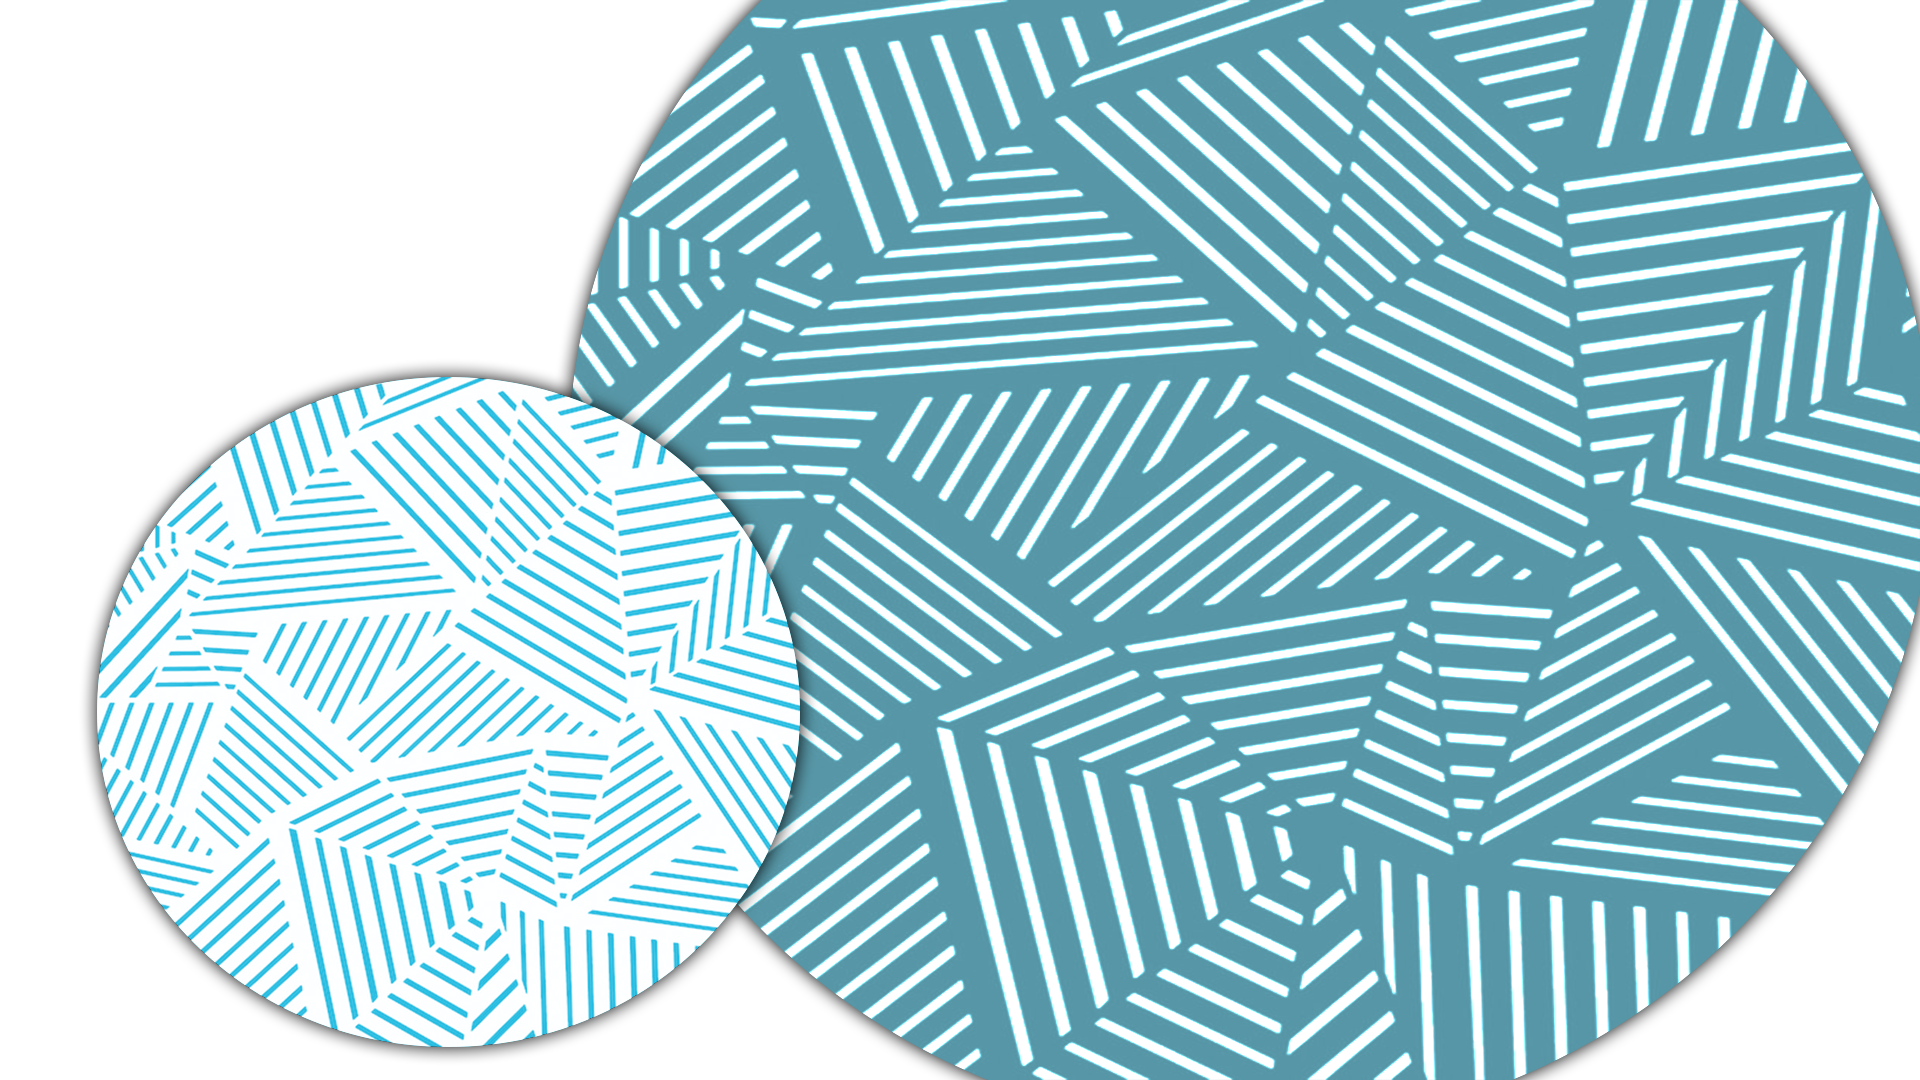
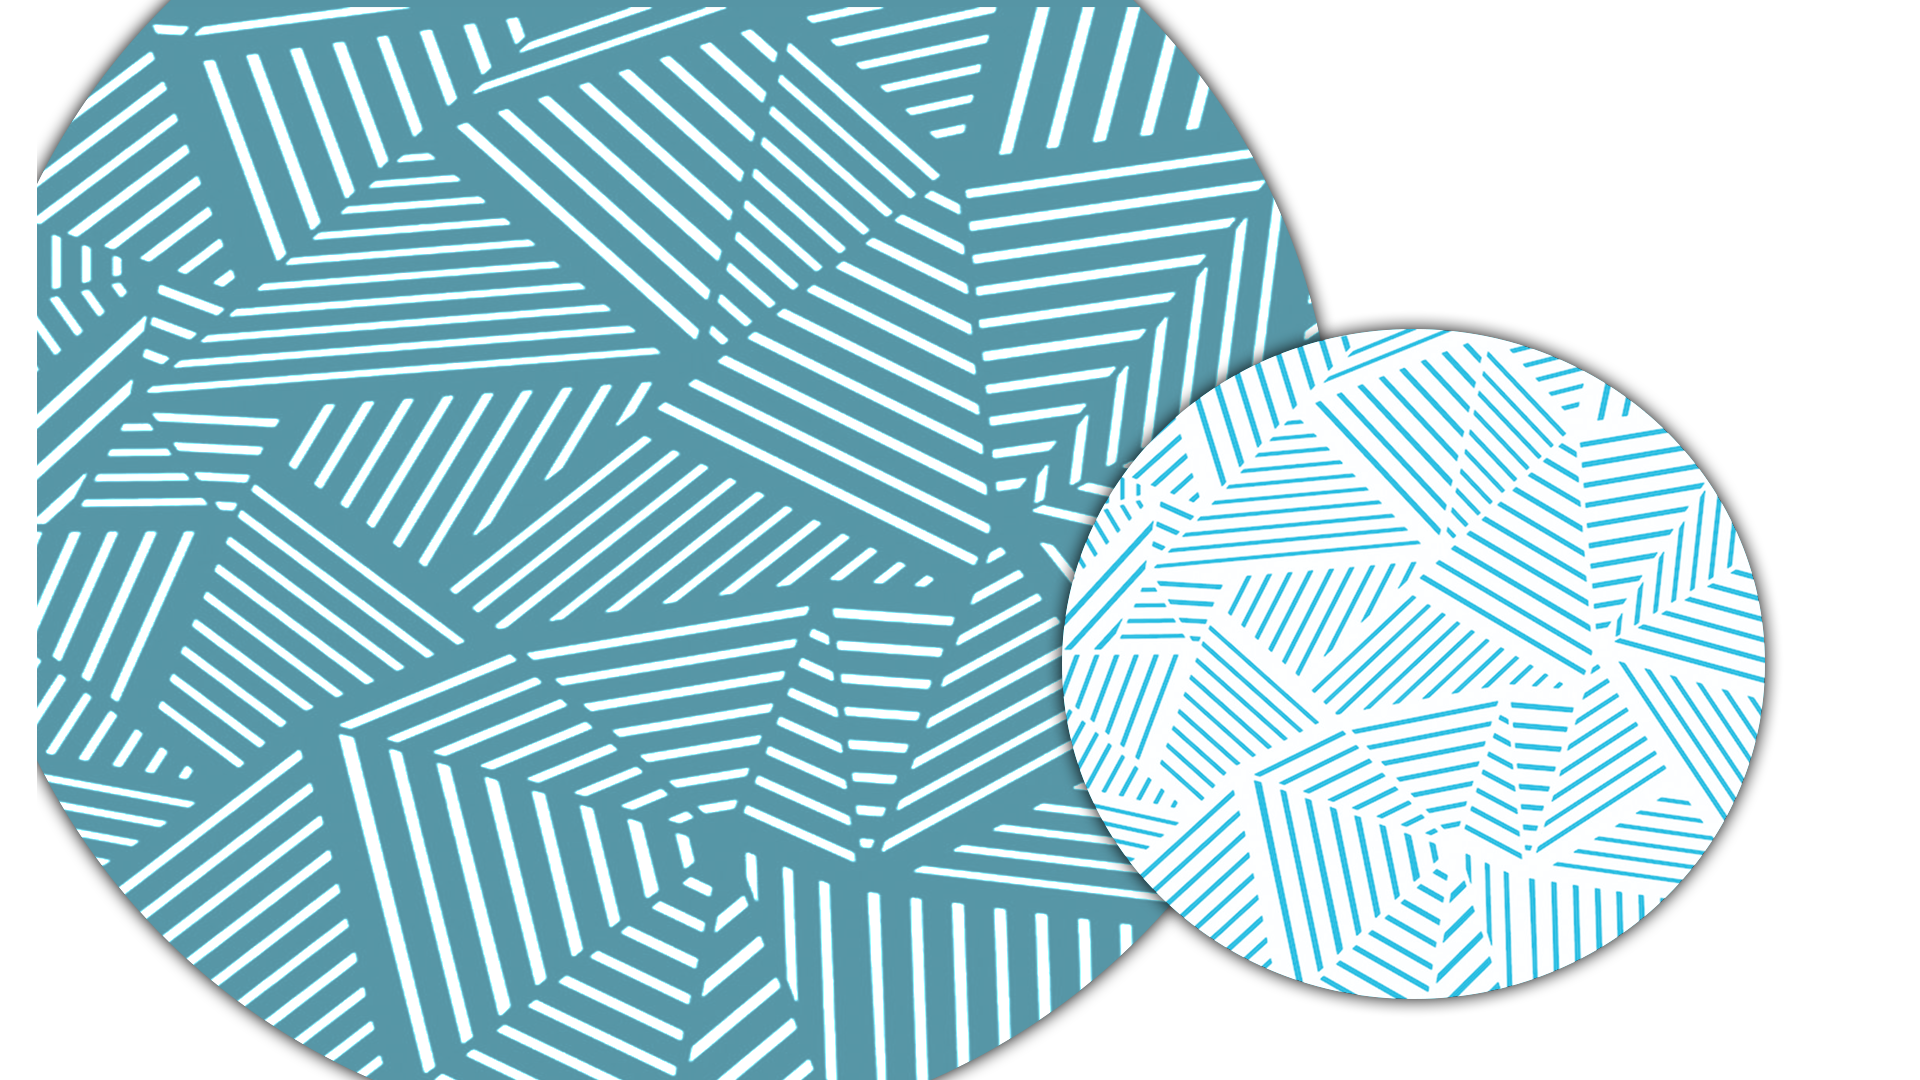
image change

diff --git a/src/app/app.component.html b/src/app/app.component.html
@@ -38,7 +38,7 @@
         <app-products class="w-100"></app-products>
     </div> -->
 
-    <div class="container d-flex justify-content-center flex-column align-items-center" id="contact">
+    <div class="d-flex justify-content-center flex-column align-items-center" id="contact">
         <app-contact class="w-100"></app-contact>
     </div>
 </div>

diff --git a/src/app/components/contact/contact.component.css b/src/app/components/contact/contact.component.css
@@ -1,3 +1,7 @@
 .background {
-    background-image: url("assets/Images/background.png");
+    background-image: url("https://raw.githubusercontent.com/phoenixSaket/genius/main/src/assets/Images/background.png");
+    height: 800px;
+    background-position: center;
+    background-repeat: no-repeat;
+    background-size: cover;
 }
